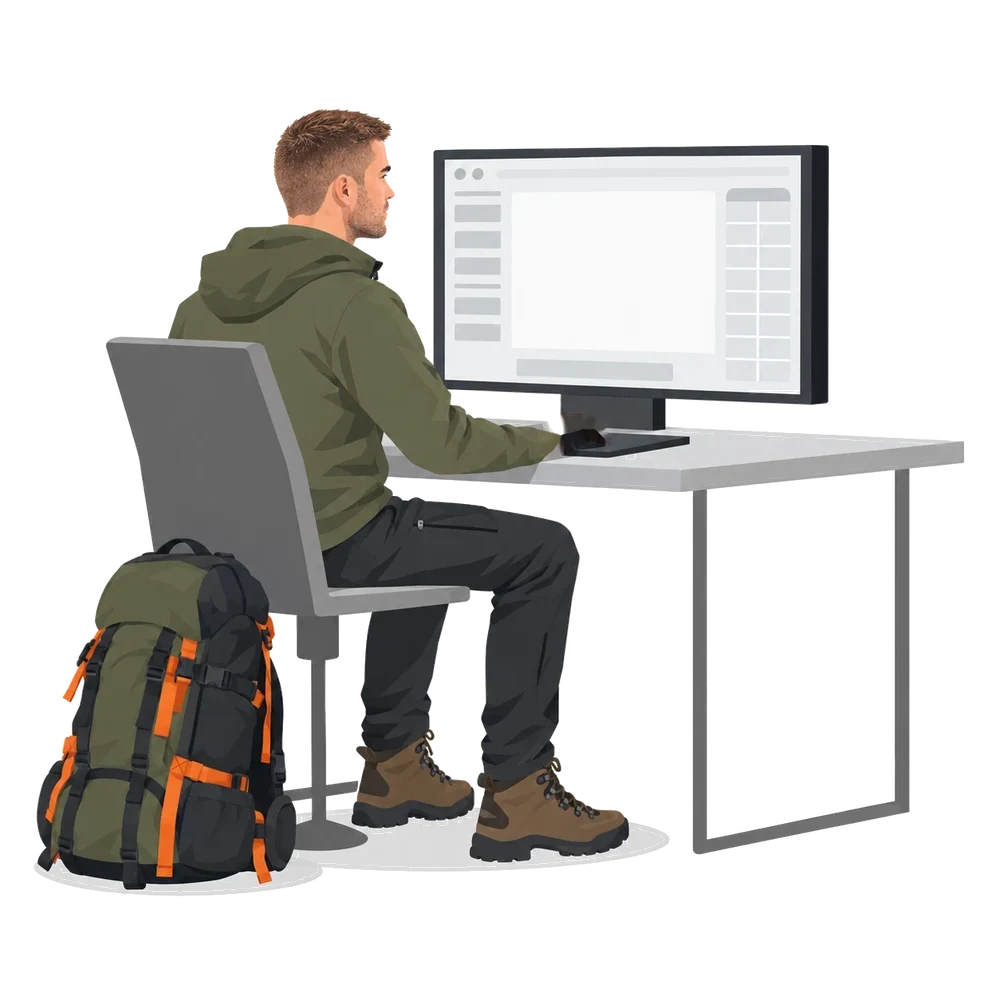
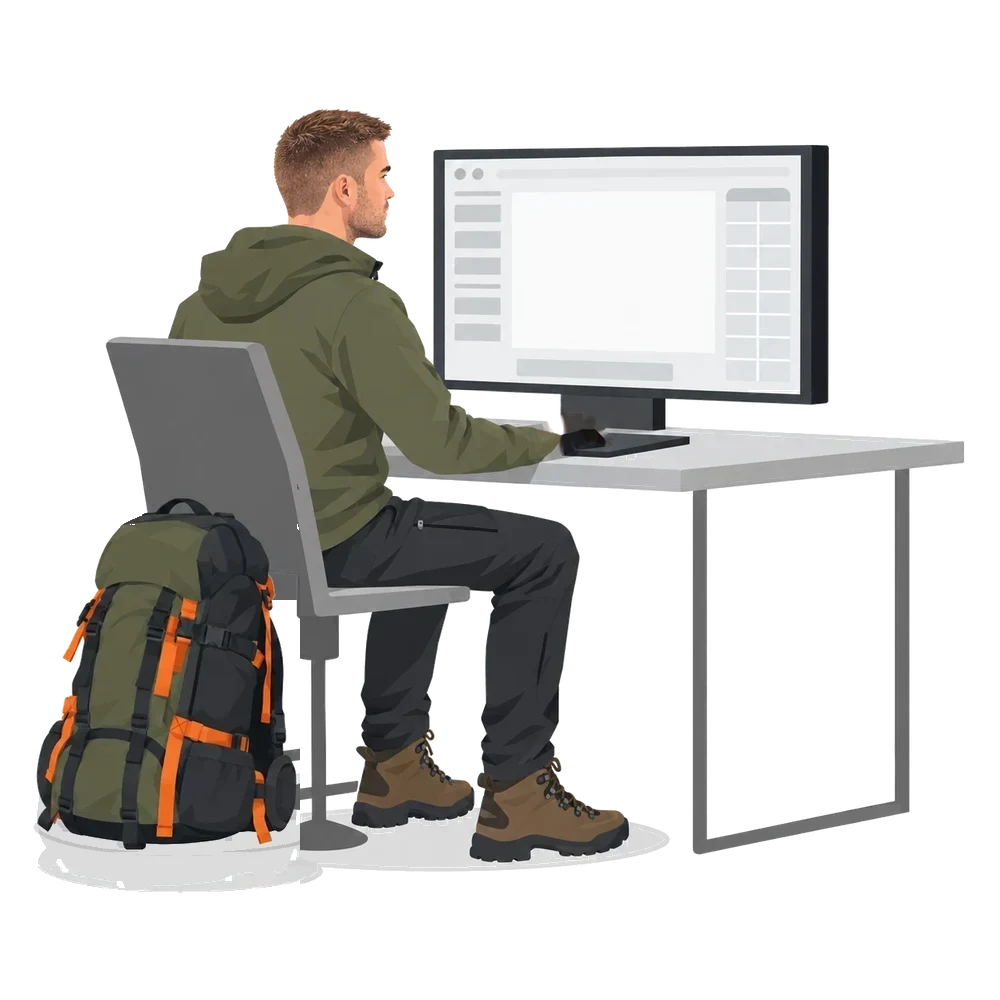
Buscador: mochila un poco más arriba y escritorio algo más abajo

Changed region(s): [[0.031, 0.496, 0.31, 0.899]]

diff --git a/index.html b/index.html
@@ -228,7 +228,7 @@
 </div>
         <span class="dibujos__name" data-dib-name></span>
         <div class="esc__view"><div class="esc__cam" data-cam>
-          <img src="assets/img/escapada-escritorio.webp?v=2" alt="Cheno en su escritorio planificando una escapada" width="1000" height="1000" />
+          <img src="assets/img/escapada-escritorio.webp?v=3" alt="Cheno en su escritorio planificando una escapada" width="1000" height="1000" />
           <img class="esc__mano" src="assets/img/escapada-mano.webp" alt="" aria-hidden="true" width="200" height="136" data-mano />
           <div class="esc__screen" data-screen><div class="esc__glass" data-glass><div data-map></div></div></div>
         </div></div>
@@ -382,7 +382,7 @@
     </div>
   </footer>
 
-  <script src="assets/js/main.js?v=20261012o"></script>
+  <script src="assets/js/main.js?v=20261012p"></script>
   <script defer src="/_vercel/insights/script.js"></script>
 </body>
 </html>

diff --git a/assets/js/main.js b/assets/js/main.js
@@ -907,8 +907,8 @@
     const W = stage.clientWidth, H = stage.clientHeight, side = Math.round(Math.min(W * 0.95, H * 1.08, 620));
     cam.style.width = cam.style.height = side + "px";
     const cw = side, ch = side;
-    // En reposo, las botas quedan apoyadas cerca del borde inferior, con algo de sombra (86,8 % de la ilustración).
-    if (!zoom) { cam.style.transform = `translate(${-cw / 2}px, ${H / 2 - ch * 0.868}px) scale(1)`; return; }
+    // En reposo, las botas quedan apoyadas cerca del borde inferior, con algo de sombra (85,8 % de la ilustración).
+    if (!zoom) { cam.style.transform = `translate(${-cw / 2}px, ${H / 2 - ch * 0.858}px) scale(1)`; return; }
     const sx = screen.offsetLeft, sy = screen.offsetTop, sw = screen.offsetWidth, sh = screen.offsetHeight;
     const s = Math.min(W * 0.96 / sw, H * 0.96 / sh);
     // la cámara está anclada en el centro del escenario: llevamos el centro de la pantalla allí

diff --git a/equipo.html b/equipo.html
@@ -230,7 +230,7 @@
       <div class="footer-bottom"><span>© <span data-year>2026</span> Chenoaventuras. Todos los derechos reservados.</span><span>chenoaventuras.com</span></div>
     </div>
   </footer>
-  <script src="assets/js/main.js?v=20261012o"></script>
+  <script src="assets/js/main.js?v=20261012p"></script>
   <script defer src="/_vercel/insights/script.js"></script>
 </body>
 </html>

diff --git a/servicios.html b/servicios.html
@@ -206,7 +206,7 @@
       <div class="footer-bottom"><span>© <span data-year>2026</span> Chenoaventuras. Todos los derechos reservados.</span><span>chenoaventuras.com</span></div>
     </div>
   </footer>
-  <script src="assets/js/main.js?v=20261012o"></script>
+  <script src="assets/js/main.js?v=20261012p"></script>
   <script defer src="/_vercel/insights/script.js"></script>
 </body>
 </html>

diff --git a/404.html b/404.html
@@ -221,7 +221,7 @@
     </div>
   </footer>
 
-  <script src="assets/js/main.js?v=20261012o"></script>
+  <script src="assets/js/main.js?v=20261012p"></script>
   <script defer src="/_vercel/insights/script.js"></script>
   <script>
   /* ============================================================

diff --git a/curiosidades.html b/curiosidades.html
@@ -103,7 +103,7 @@
     </div>
   </footer>
 
-  <script src="assets/js/main.js?v=20261012o"></script>
+  <script src="assets/js/main.js?v=20261012p"></script>
   <script defer src="/_vercel/insights/script.js"></script>
   <script async src="https://www.instagram.com/embed.js"></script>
 </body>

diff --git a/contacto.html b/contacto.html
@@ -322,7 +322,7 @@
     </div>
   </footer>
 
-  <script src="assets/js/main.js?v=20261012o"></script>
+  <script src="assets/js/main.js?v=20261012p"></script>
   <script src="assets/js/sobre-mi.js?v=20261011n" defer></script>
   <script defer src="/_vercel/insights/script.js"></script>
 </body>

diff --git a/politica-cookies.html b/politica-cookies.html
@@ -113,7 +113,7 @@
     </div>
   </footer>
 
-  <script src="assets/js/main.js?v=20261012o"></script>
+  <script src="assets/js/main.js?v=20261012p"></script>
   <script defer src="/_vercel/insights/script.js"></script>
 </body>
 </html>

diff --git a/politica-privacidad.html b/politica-privacidad.html
@@ -127,7 +127,7 @@
     </div>
   </footer>
 
-  <script src="assets/js/main.js?v=20261012o"></script>
+  <script src="assets/js/main.js?v=20261012p"></script>
   <script defer src="/_vercel/insights/script.js"></script>
 </body>
 </html>
